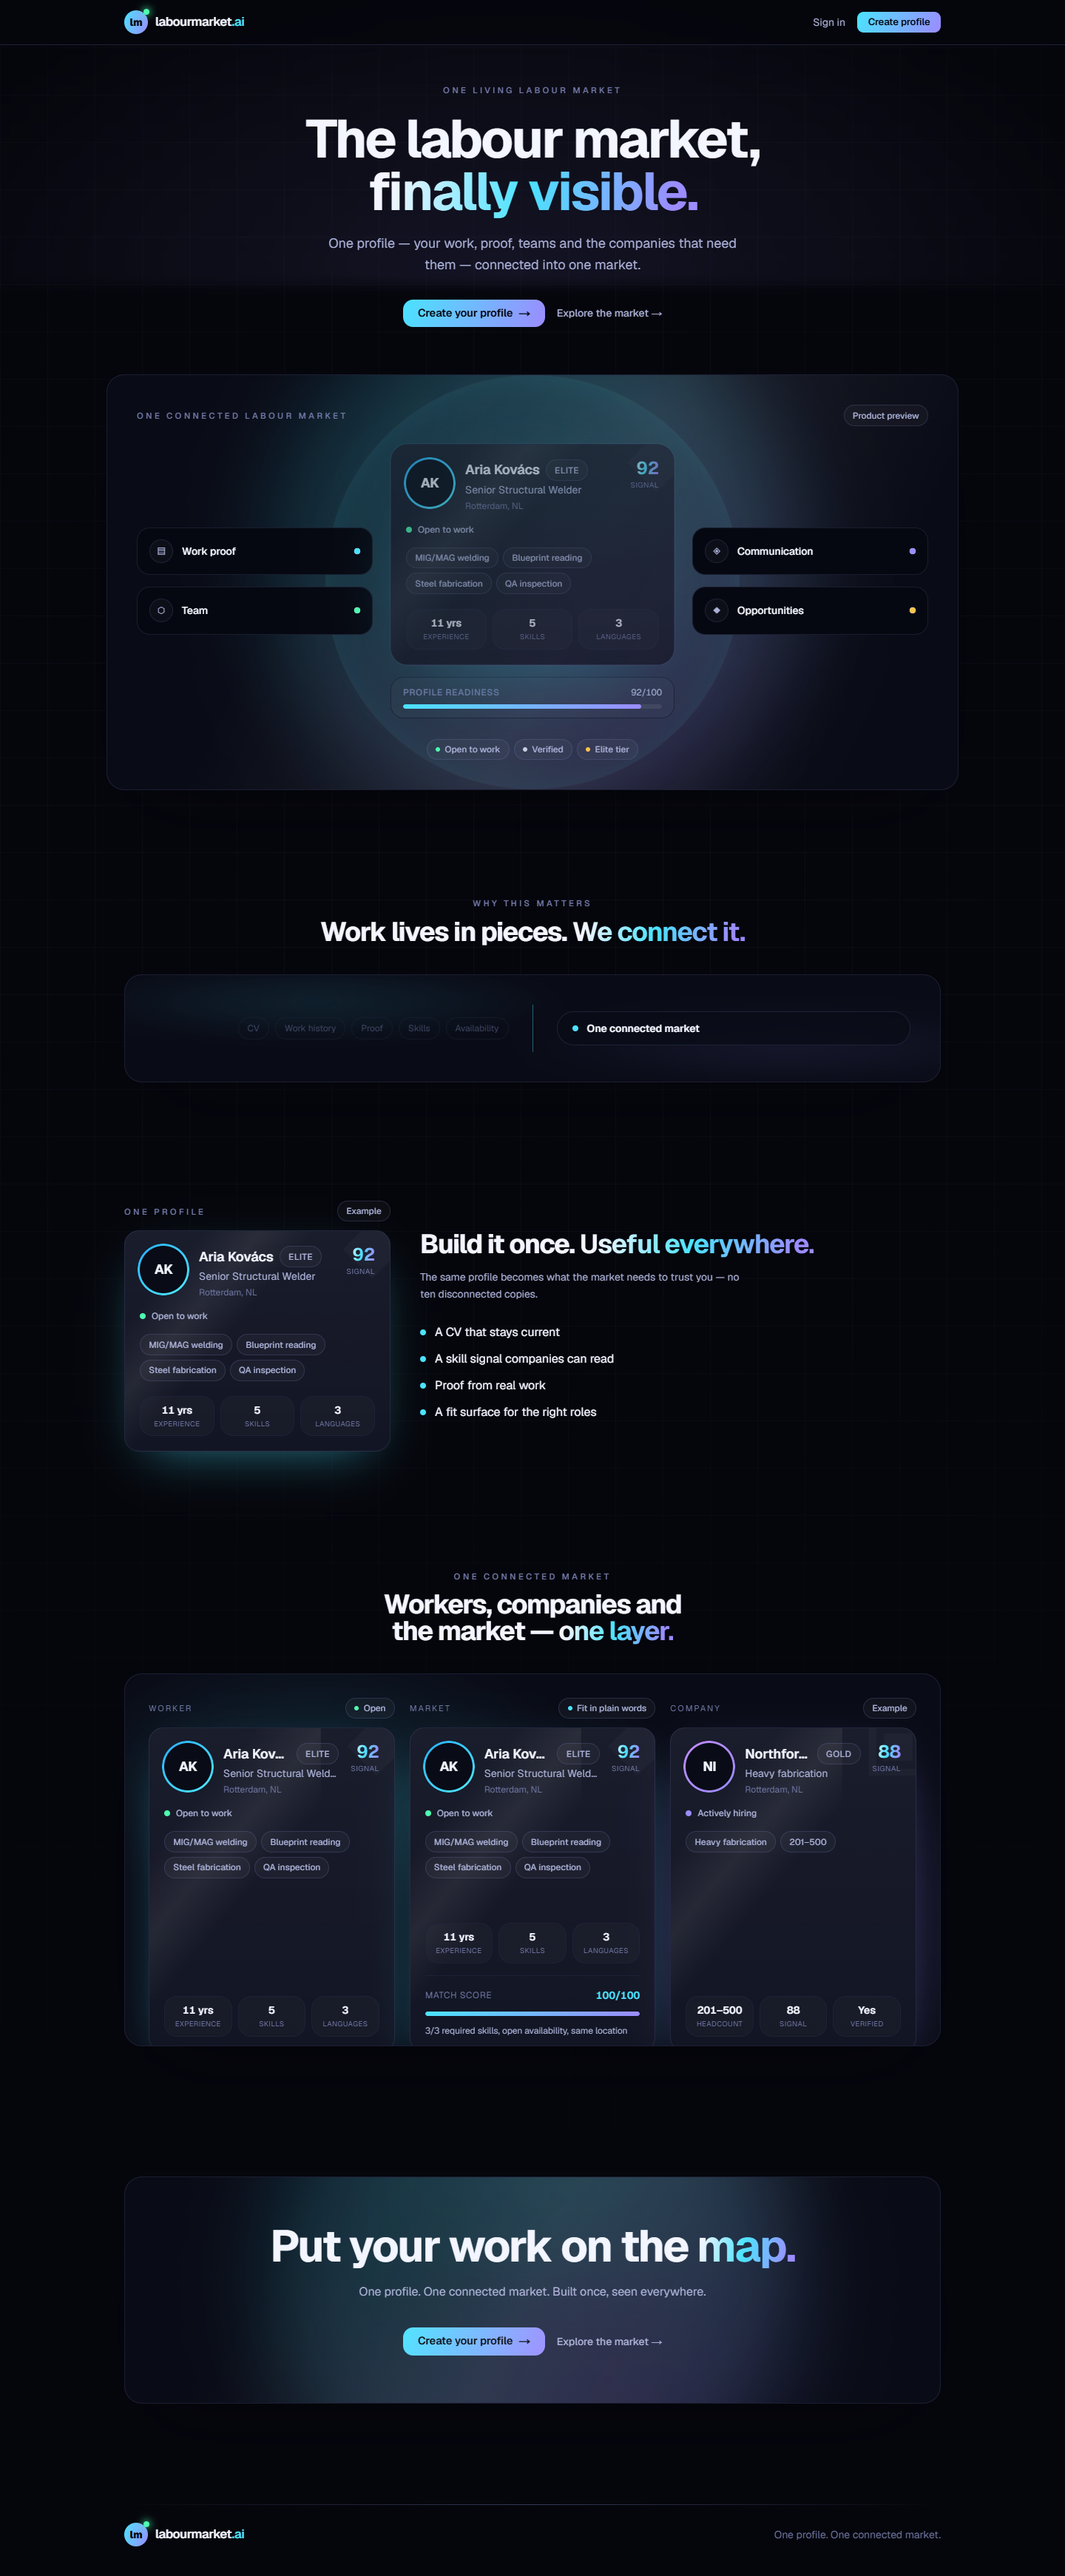
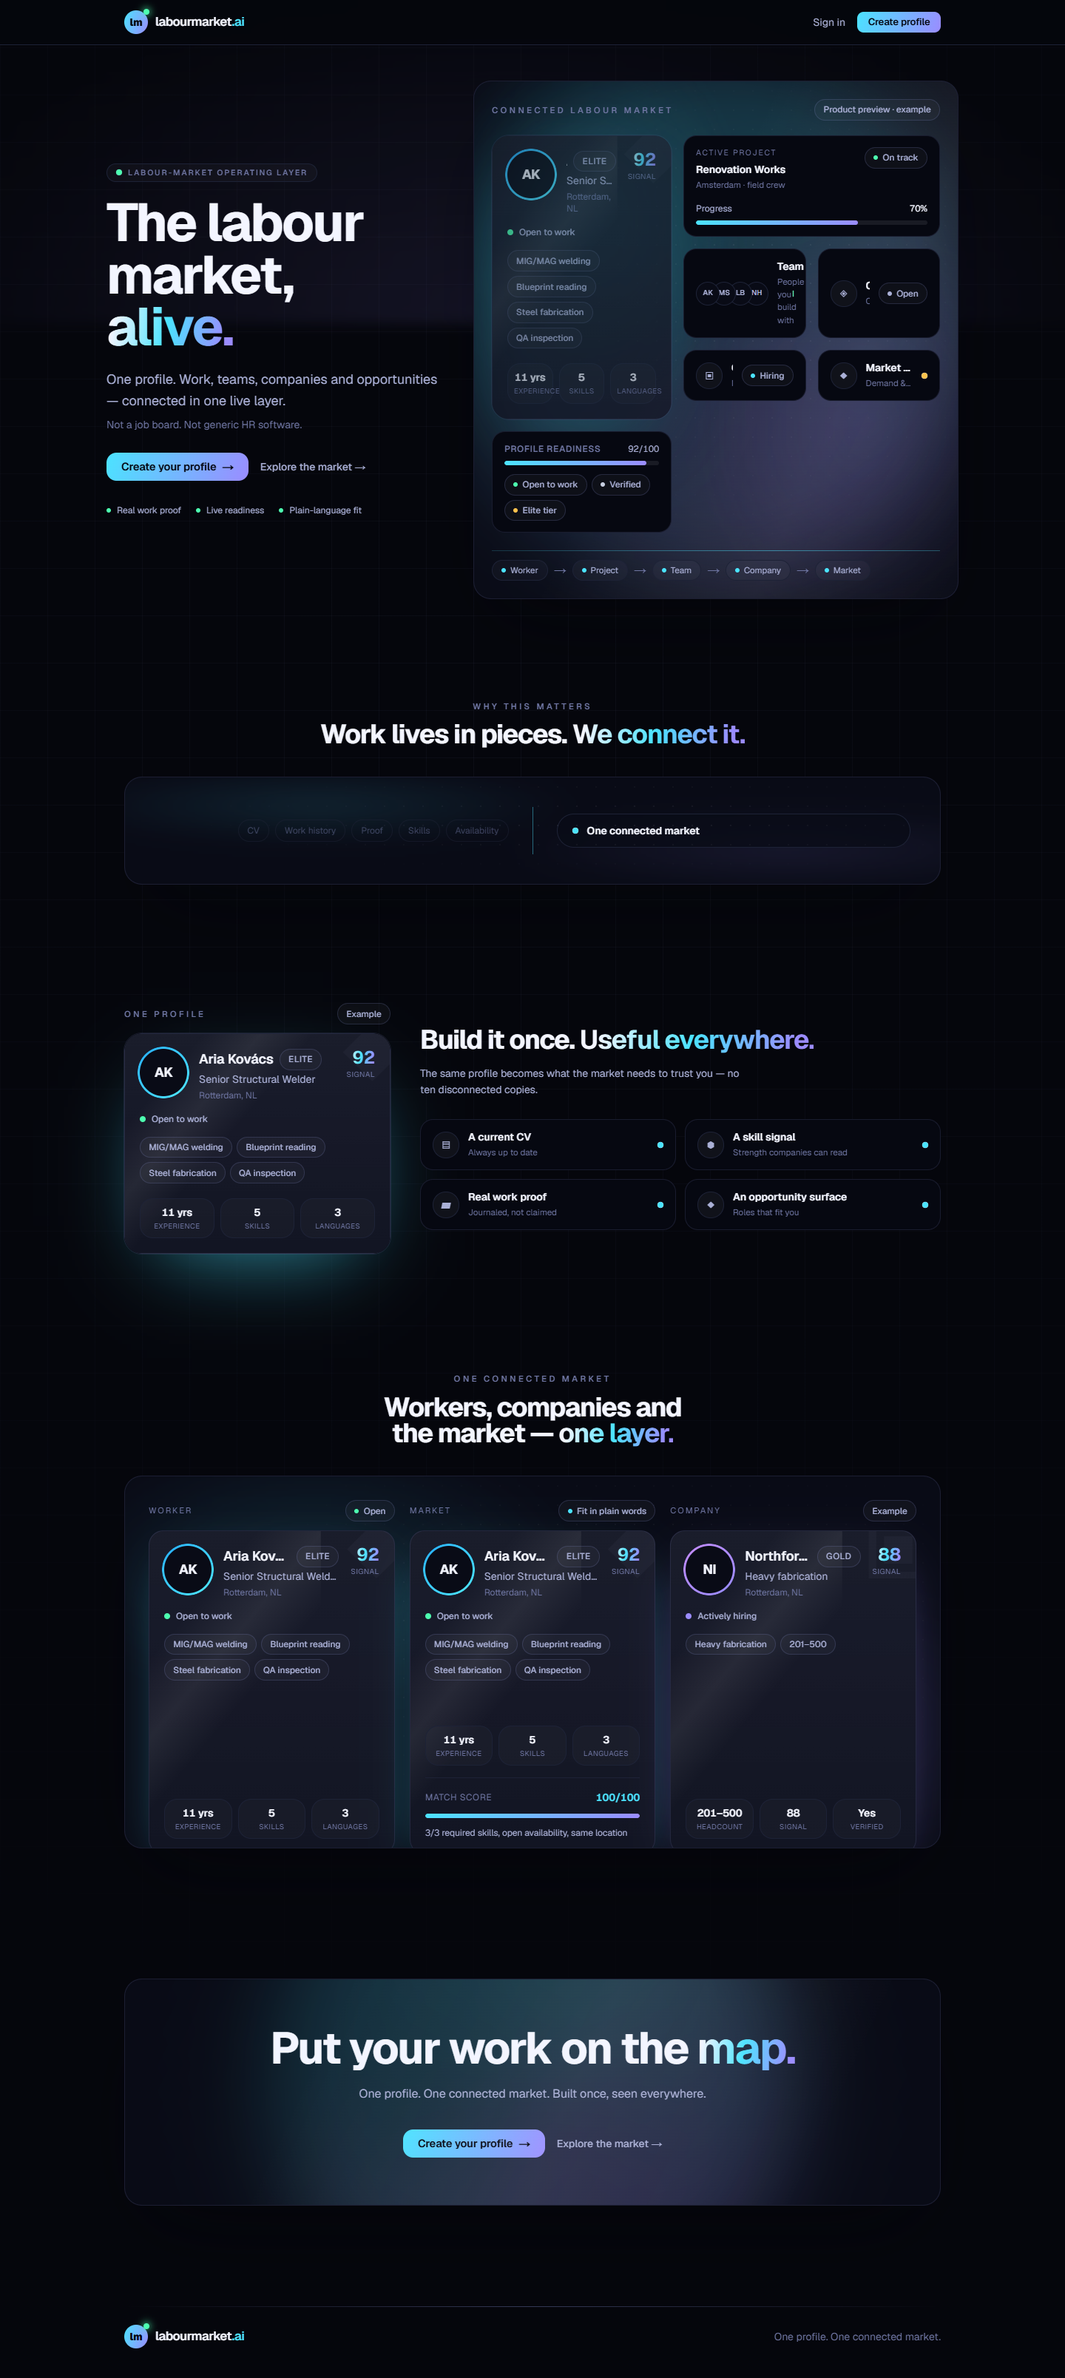
docs(review): v6 owner-review artifacts + provided visual references
Fresh desktop/tablet/mobile screenshots of the v6 correction (commit
66b7b44), updated OWNER-REVIEW.html (now shows the 4 reference targets) and
PROOF.txt. Includes the 4 provided review/visual-references/*.png as design
context (de-duplicated; zip + nested copy removed). Local prod server
capture (Vercel preview SSO-gated). No product/route/guard change; no merge,
no deploy, no main, no Vercel settings.

diff --git a/review/artifacts/OWNER-REVIEW.html b/review/artifacts/OWNER-REVIEW.html
@@ -3,25 +3,25 @@
 <head>
 <meta charset="utf-8" />
 <meta name="viewport" content="width=device-width, initial-scale=1" />
-<title>Owner Visual Review — labourmarket.ai PR #1 (landing wow-correction v4)</title>
+<title>Owner Visual Review — labourmarket.ai PR #1 (final visual correction v6)</title>
 <style>
   :root { color-scheme: dark; }
   * { box-sizing: border-box; }
   body { margin: 0; padding: 2.5rem 1.5rem 4rem; background: #05060c;
     color: #f3f5ff; font: 15px/1.6 system-ui, -apple-system, Segoe UI, sans-serif; }
-  .wrap { max-width: 1100px; margin: 0 auto; }
+  .wrap { max-width: 1180px; margin: 0 auto; }
   h1 { font-size: 1.7rem; letter-spacing: -0.02em; margin: 0 0 .35rem; }
   h2 { font-size: 1.02rem; margin: 2.4rem 0 .9rem; color: #4be3ff;
        text-transform: uppercase; letter-spacing: .16em; }
   p { color: #aab0d6; } a { color: #4be3ff; }
   code { background: #0e1120; padding: .12rem .4rem; border-radius: 5px;
-    font-family: ui-monospace, monospace; font-size: .86em; color: #f3f5ff; }
+    font-family: ui-monospace, monospace; font-size: .85em; color: #f3f5ff; }
   .meta { color: #6f76a3; font-size: .9rem; }
   .panel { background: #0e1120; border: 1px solid #1d2236;
     border-radius: 14px; padding: 1.1rem 1.3rem; margin-top: .8rem; }
   .panel b { color: #f3f5ff; }
   .grid { display: grid; gap: 1.1rem; grid-template-columns: repeat(3, 1fr); }
-  @media (max-width: 820px) { .grid { grid-template-columns: 1fr; } }
+  @media (max-width: 860px) { .grid { grid-template-columns: 1fr; } }
   figure { margin: 0; }
   figcaption { margin-top: .5rem; font-size: .85rem; color: #aab0d6; }
   figcaption b { color: #f3f5ff; }
@@ -29,6 +29,9 @@
     overflow: hidden; background: #090b16; }
   .shot img { display: block; width: 100%; height: 360px; object-fit: cover;
     object-position: top; }
+  .refs { grid-template-columns: repeat(4, 1fr); }
+  @media (max-width: 860px) { .refs { grid-template-columns: 1fr 1fr; } }
+  .refs .shot img { height: 150px; }
   ul { color: #aab0d6; padding-left: 1.1rem; } li { margin: .3rem 0; }
   .ok { color: #4dffb0; } .warn { color: #ffc24d; }
   .foot { margin-top: 3rem; color: #6f76a3; font-size: .82rem;
@@ -38,7 +41,7 @@
 <body>
 <div class="wrap">
 
-  <h1>Owner Visual Review — landing wow-correction v4</h1>
+  <h1>Owner Visual Review — final visual correction v6</h1>
   <p class="meta">labourmarket.ai · PR #1 · 2026-05-19 · review-only evidence</p>
 
   <h2>Branch / head proof</h2>
@@ -47,78 +50,90 @@
       Repo <code>C:\Users\Mano\Documents\labourmarketai</code> (correct no-dot)
       → <code>github.com/bandymuks1-stack/labourmarketai</code><br/>
       Branch <code>feat/labourmarketai-foundation-v1</code> (PR #1 only)<br/>
-      v4 commit <code>a2b5747bbc4a9c4769955a5ac5652991573b92de</code>
-      · prev v3 <code>df9806b</code><br/>
-      <code>origin/main</code> <code>5e5998906da9184e892eabd6889488d7d119f831</code>
-      — <b class="ok">unchanged</b>; dot-path repo <b class="ok">not touched</b>
+      v6 commit <code>66b7b4426ce8267cfb7fb996d926c24ca0022760</code>
+      · prev v4 <code>caad46d</code><br/>
+      <code>origin/main</code>
+      <code>5e5998906da9184e892eabd6889488d7d119f831</code> —
+      <b class="ok">unchanged</b>; dot-path repo <b class="ok">not touched</b>
     </p>
   </div>
 
-  <h2>Localhost capture proof</h2>
-  <div class="panel">
-    <p style="margin:0">
-      Vercel preview is SSO-gated (HTTP 401 public). Captured from local
-      production server of the v4 commit:
-      <code>next build</code> → <code>next start -p 3140</code> →
-      <code>http://localhost:3140/</code> → <b class="ok">HTTP 200</b>
-      (markers: "finally visible", "One connected labour market", "Work lives
-      in pieces"). Playwright <code>--channel=chrome</code>, full-page.
-      <span class="warn">Note:</span> browser tab <code>&lt;title&gt;</code>
-      still carries the prior <code>site.ts</code> tagline — intentionally
-      left to keep scope to the landing only.
-    </p>
+  <h2>Reference targets used</h2>
+  <div class="grid refs">
+    <figure>
+      <a class="shot" href="../visual-references/desired-desktop-reference-1-living-market-os.png" target="_blank" rel="noopener">
+        <img src="../visual-references/desired-desktop-reference-1-living-market-os.png" alt="reference 1" /></a>
+      <figcaption>Living-market OS</figcaption>
+    </figure>
+    <figure>
+      <a class="shot" href="../visual-references/desired-desktop-reference-2-command-center.png" target="_blank" rel="noopener">
+        <img src="../visual-references/desired-desktop-reference-2-command-center.png" alt="reference 2" /></a>
+      <figcaption>Command center</figcaption>
+    </figure>
+    <figure>
+      <a class="shot" href="../visual-references/desired-desktop-reference-3-ecosystem-hub.png" target="_blank" rel="noopener">
+        <img src="../visual-references/desired-desktop-reference-3-ecosystem-hub.png" alt="reference 3" /></a>
+      <figcaption>Ecosystem hub</figcaption>
+    </figure>
+    <figure>
+      <a class="shot" href="../visual-references/desired-mobile-reference-1-premium-app.png" target="_blank" rel="noopener">
+        <img src="../visual-references/desired-mobile-reference-1-premium-app.png" alt="mobile reference" /></a>
+      <figcaption>Premium mobile</figcaption>
+    </figure>
   </div>
 
-  <h2>Contact sheet — click for full resolution</h2>
+  <h2>Result — click for full resolution</h2>
   <div class="grid">
     <figure>
       <a class="shot" href="desktop.png" target="_blank" rel="noopener">
-        <img src="desktop.png" alt="v4 landing — desktop 1440px" /></a>
+        <img src="desktop.png" alt="v6 landing — desktop 1440px" /></a>
       <figcaption><b>Desktop</b> — 1440 × 900</figcaption>
     </figure>
     <figure>
       <a class="shot" href="tablet.png" target="_blank" rel="noopener">
-        <img src="tablet.png" alt="v4 landing — tablet 834px" /></a>
+        <img src="tablet.png" alt="v6 landing — tablet 834px" /></a>
       <figcaption><b>Tablet</b> — 834 × 1112</figcaption>
     </figure>
     <figure>
       <a class="shot" href="mobile.png" target="_blank" rel="noopener">
-        <img src="mobile.png" alt="v4 landing — mobile 390px" /></a>
+        <img src="mobile.png" alt="v6 landing — mobile 390px" /></a>
       <figcaption><b>Mobile</b> — 390 × 844</figcaption>
     </figure>
   </div>
 
-  <h2>v3 → v4: what to inspect</h2>
+  <h2>What changed (toward the references)</h2>
   <div class="panel">
     <ul>
-      <li><b>Density slashed:</b> removed the 7-item disconnect list, 6+9 tile
-        grids, 5+5 bullet lists, 9 facet chips and the 8-node path. Each
-        section is now a short headline + one line. Sells the feeling first.</li>
-      <li><b>Dominant cinematic hero:</b> centered reveal with a glowing focal
-        profile core (slow conic halo, breathing orbit, elegant light sweep)
-        and four minimal connected signals — a scene, not headline+text+UI.</li>
-      <li><b>Living-market feel:</b> ambient network glow, pulsing signals,
-        shimmer and easing motion (restrained, reduced-motion safe) make it
-        feel alive and operational, not a static SaaS page.</li>
-      <li><b>Five lean sections:</b> hero · work-in-pieces → connected ·
-        one profile/many uses · worker·market·company one layer · CTA close.</li>
-      <li><b>Header/buttons:</b> slim sticky blurred header, compact primary,
-        secondary actions are now light text links — no bulky top CTA block.</li>
-      <li><b>Mobile:</b> compact header, one strong full-width primary, the
-        focal scene with a single 3-signal row (no module grid), no horizontal
-        overflow — premium, intentional, not a squeezed desktop.</li>
-      <li><b>Honesty:</b> example surfaces tagged "Example/Product preview";
-        the only number is the example profile's own readiness; no fake
-        counts, customers, AI or matching claims.</li>
+      <li><b>Reference-style hero:</b> two-column — lean left (eyebrow chip,
+        "The labour market, alive.", one line, primary + light secondary,
+        honest capability ticks) and a dominant right connected command
+        surface, like the living-market-os / command-center references.</li>
+      <li><b>Real product/system presence:</b> dominant worker profile +
+        readiness, an active project module ("Renovation Works", progress),
+        and Team / Communication / Company &amp; HR / Market signals with a
+        connection path and glow — concrete labour-market reality, not an
+        abstract empty halo.</li>
+      <li><b>Alive feeling:</b> halo, scene grid, soft sweep, breathing glow,
+        pulse signals and shimmer connectors (restrained, reduced-motion
+        safe).</li>
+      <li><b>Lean structure:</b> 5 sections, each with a visual anchor; far
+        less text than v3, far more product richness than v4.</li>
+      <li><b>Mobile:</b> compact header, one strong primary, light secondary,
+        a strong first product card, a few compact connected modules, clean
+        rhythm, no horizontal overflow — matches the premium-app reference
+        intent, not a shrunk desktop.</li>
+      <li><b>Honesty:</b> sample surfaces tagged "Product preview / Example";
+        only the example profile's own readiness is numeric; no fake counts,
+        customers, AI or matching claims (no stock photos — initials avatars).</li>
     </ul>
   </div>
 
   <p class="foot">
-    Review-only. Landing + landing components + token/CSS only. No new routes,
-    no auth/admin/app-flow change, no backend, no payment, no fake claims, no
+    Review-only. Landing + landing components + token/CSS + review artifacts/
+    references only. No new routes, no backend, no payment, no fake claims, no
     duplicate concepts. No merge · no deploy · no main push · no Vercel
     settings change. Guards green (typecheck / lint / check / build) at
-    commit <code>a2b5747</code>.
+    commit <code>66b7b44</code>.
   </p>
 
 </div>
